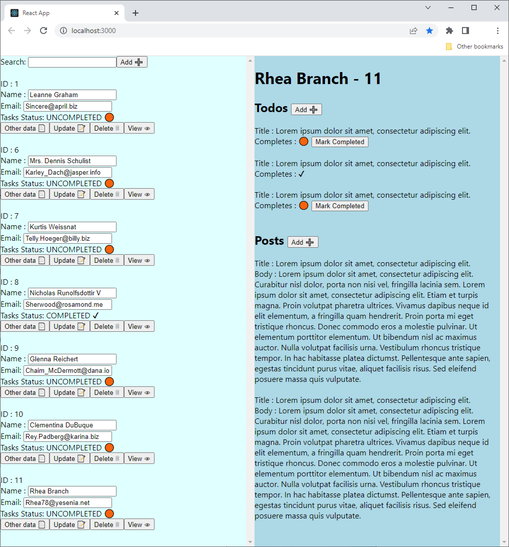
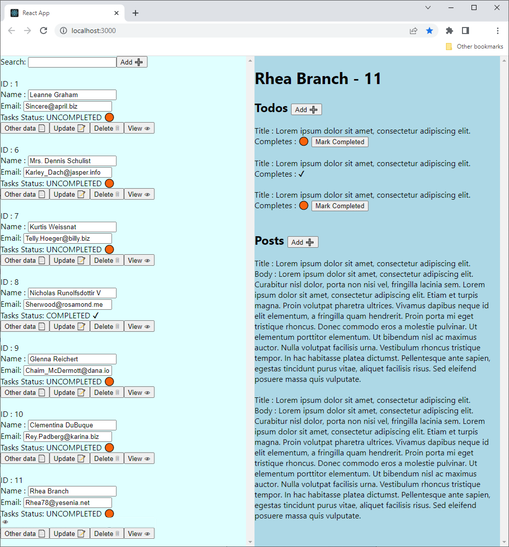
improve performance and add feature.
*add useMemo in react to not filter every time the app component render.
*mark the user in list that show in the content menu.

Changed region(s): [[0.0, 0.9324, 0.3242, 0.9945]]

diff --git a/src/App.js b/src/App.js
@@ -1,4 +1,4 @@
-import { useEffect, useState } from 'react';
+import { useEffect, useMemo, useState } from 'react';
 import { Content } from './Content';
 import { UserAdder } from './UserAdder';
 import { Users } from './Users';
@@ -14,9 +14,20 @@ function App() {
   const [contentComponentKey, setContentComponentKey] = useState('not_selected')
   const [contentPanelUserID, setContentPanelUserID] = useState(-1) 
 
-  const user = users.find(item => item.id === contentPanelUserID)
-  const userTodos = todos.filter(item => item.userId === contentPanelUserID)
-  const userPosts = posts.filter(item => item.userId === contentPanelUserID) 
+  const user = useMemo(
+    () => findUserById(users,contentPanelUserID),
+    [users,contentPanelUserID]
+  )
+  
+  const userTodos = useMemo(
+    () => filterItemsByUserId(todos,contentPanelUserID),
+    [todos,contentPanelUserID]
+  ) 
+
+  const userPosts =  useMemo(
+    () => filterItemsByUserId(posts,contentPanelUserID),
+    [posts,contentPanelUserID]
+  )
 
   const effectLoadDatabase = () => {
     database.initialize()
@@ -48,10 +59,18 @@ function App() {
 
   return (
     <>
-     <Users users={users} todos={todos} database={database} viewer={viewUser} adder={viewAdder}/>
+     <Users users={users} todos={todos} database={database} viewer={viewUser} adder={viewAdder} currentIdView={contentPanelUserID}/>
      {getContentComponent()}    
     </>   
   );
+}
+
+function findUserById(users,id){
+  return users.find(item => item.id === id)
+}
+
+function filterItemsByUserId(item,id){
+  return item.filter(item => item.userId === id)
 }
 
 export default App;

diff --git a/src/User.js b/src/User.js
@@ -1,7 +1,7 @@
 import { useState } from 'react'
 import { UserOtherData } from './UserOtherData'
 
-export const User = ({user,todos,database,viewer}) => {
+export const User = ({user,todos,database,viewer,isView}) => {
   const [name, setName] = useState(user.name) 
   const [email, setEmail] = useState(user.email)
   const [moreData, setMoreData] = useState(false)
@@ -19,6 +19,13 @@ export const User = ({user,todos,database,viewer}) => {
     else
       return 'COMPLETED ✔'
   }  
+
+  const showViewStatus = () => {
+    if(isView)
+      return <>👁<br/></>
+    else
+      return ' '
+  }
 
   const updateUser = async () => {    
     const newUser = {...user,name,email}
@@ -44,6 +51,7 @@ export const User = ({user,todos,database,viewer}) => {
         Name : <input type="text" value={name} onInput={e=>setName(e.target.value)}/><br/>
         Email: <input type="email" value={email} onInput={e=>setEmail(e.target.value)}/><br/>
         Tasks Status: {showTasksStatus()}<br/>
+        {showViewStatus()}
           <button onClick={showMoreData}>Other data 📄</button>
           <button onClick={updateUser}>Update 📝</button>
           <button onClick={deleteUser}>Delete 🗑</button>

diff --git a/src/Users.js b/src/Users.js
@@ -1,14 +1,15 @@
 import { useState } from 'react'
 import { User } from './User'
 
-export const Users = ({users,todos,database,viewer,adder}) => {  
+export const Users = ({users,todos,database,viewer,currentIdView,adder}) => {  
   
   const [searchBox, setSearchBox] = useState('')
 
   const mapUsers = (item) => {
     const todosFiltered = todos.filter(task => task.userId === item.id)
+      
 
-    return <User key={item.id} user={item} todos={todosFiltered} database={database} viewer={viewer}/>
+    return <User key={item.id} user={item} todos={todosFiltered} database={database} viewer={viewer} isView={item.id === currentIdView}/>
   }
 
   const filterUsers = (item) => {
